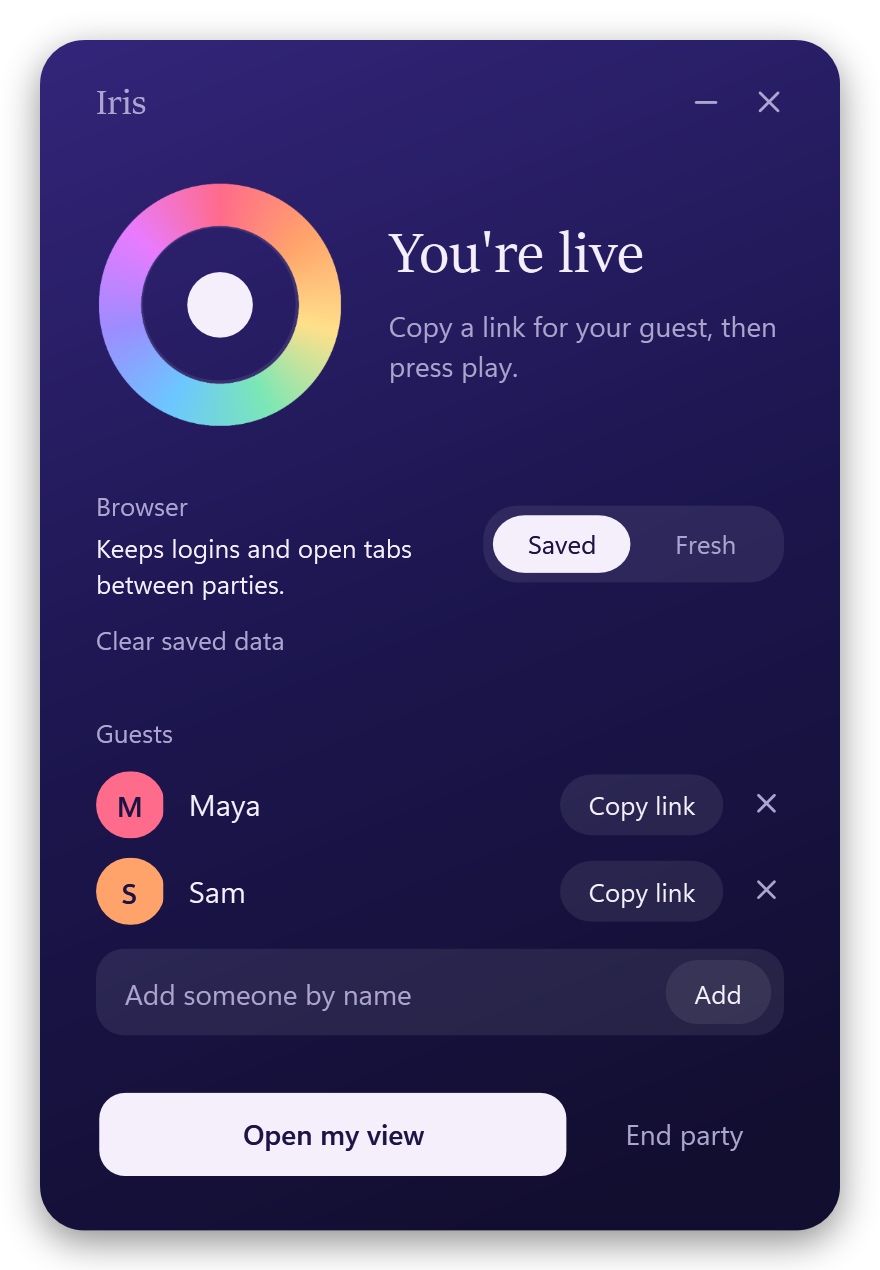
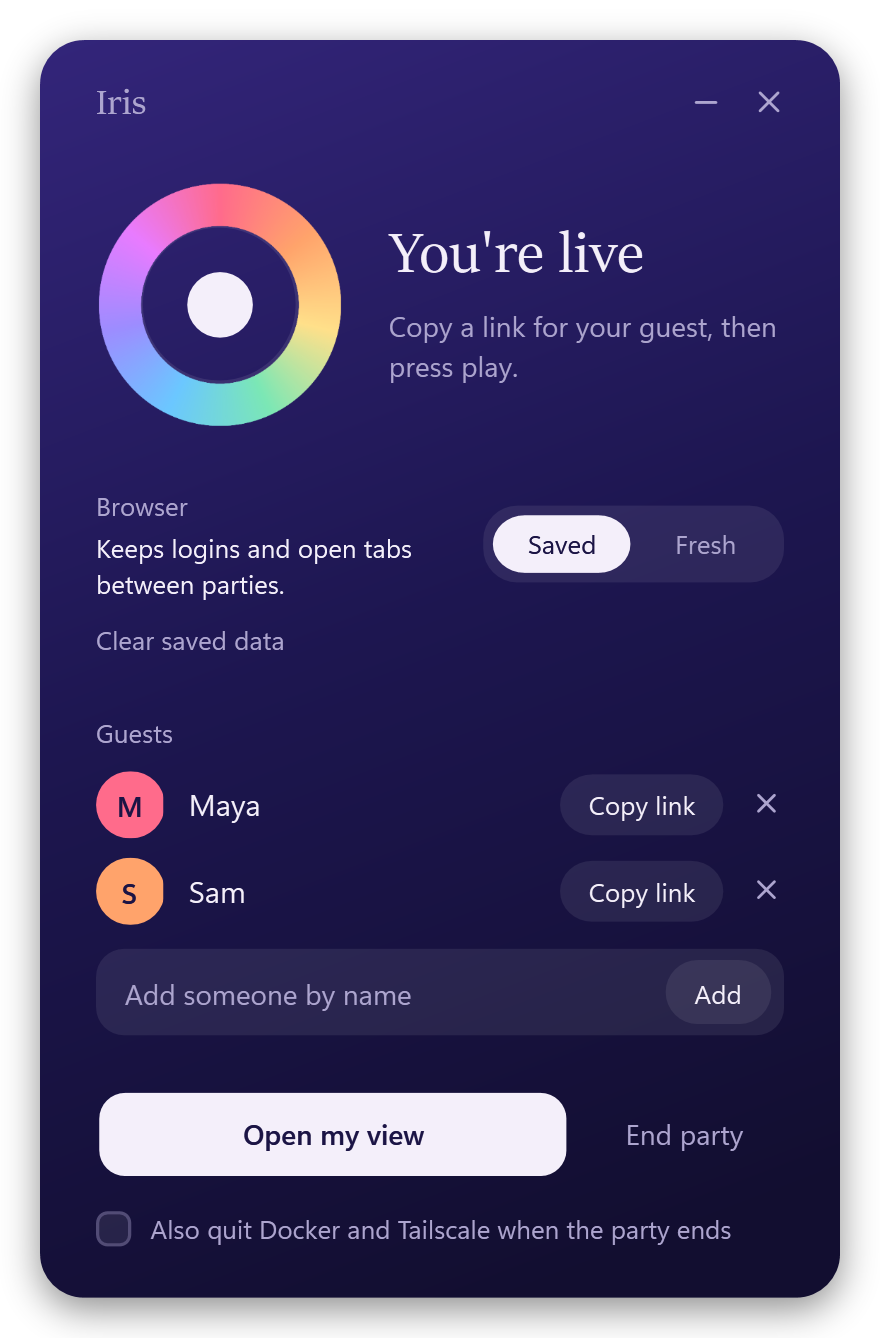
Option to quit Docker and Tailscale when the party ends
A remembered tick box under the buttons. End party then runs docker desktop stop and closes Tailscale's tray app; Iris starts both again next time, now in parallel. Also documents that Iris opens Docker and Tailscale itself.

diff --git a/ui/Iris.xaml b/ui/Iris.xaml
@@ -80,6 +80,40 @@
       <Setter Property="Width" Value="32"/>
       <Setter Property="Height" Value="32"/>
     </Style>
+
+    <Style x:Key="Tick" TargetType="CheckBox">
+      <Setter Property="Foreground" Value="{StaticResource Haze}"/>
+      <Setter Property="FontSize" Value="13"/>
+      <Setter Property="Cursor" Value="Hand"/>
+      <Setter Property="FocusVisualStyle" Value="{x:Null}"/>
+      <Setter Property="Template">
+        <Setter.Value>
+          <ControlTemplate TargetType="CheckBox">
+            <StackPanel Orientation="Horizontal" Background="Transparent">
+              <Border x:Name="Box" Width="18" Height="18" CornerRadius="5" Background="{StaticResource Veil}"
+                      BorderBrush="#66ADA5CF" BorderThickness="1.5" VerticalAlignment="Center">
+                <Path x:Name="Mark" Data="M3.5,9 L7,12.5 L13.5,5" Stroke="{StaticResource Ink}" StrokeThickness="1.8"
+                      StrokeStartLineCap="Round" StrokeEndLineCap="Round" StrokeLineJoin="Round" Visibility="Collapsed"/>
+              </Border>
+              <ContentPresenter Margin="10,0,0,0" VerticalAlignment="Center"/>
+            </StackPanel>
+            <ControlTemplate.Triggers>
+              <Trigger Property="IsChecked" Value="True">
+                <Setter TargetName="Box" Property="Background" Value="{StaticResource Cloud}"/>
+                <Setter TargetName="Box" Property="BorderBrush" Value="{StaticResource Cloud}"/>
+                <Setter TargetName="Mark" Property="Visibility" Value="Visible"/>
+              </Trigger>
+              <Trigger Property="IsMouseOver" Value="True">
+                <Setter Property="Foreground" Value="{StaticResource Cloud}"/>
+              </Trigger>
+              <Trigger Property="IsKeyboardFocused" Value="True">
+                <Setter TargetName="Box" Property="BorderBrush" Value="{StaticResource Focus}"/>
+              </Trigger>
+            </ControlTemplate.Triggers>
+          </ControlTemplate>
+        </Setter.Value>
+      </Setter>
+    </Style>
   </Window.Resources>
 
   <Border Margin="20" CornerRadius="22">
@@ -174,6 +208,8 @@
           <Button x:Name="OpenView" Content="Open my view" Style="{StaticResource Main}" IsEnabled="False"/>
           <Button x:Name="EndParty" Grid.Column="2" Content="End party" Style="{StaticResource Plain}"/>
         </Grid>
+        <CheckBox x:Name="QuitApps" Content="Also quit Docker and Tailscale when the party ends" Style="{StaticResource Tick}"
+                  Margin="0,16,0,0" AutomationProperties.Name="Also quit Docker and Tailscale"/>
       </StackPanel>
 
       <Grid x:Name="Sheet" Visibility="Collapsed">

diff --git a/docs/TROUBLESHOOTING.md b/docs/TROUBLESHOOTING.md
@@ -7,6 +7,7 @@
 | Iris window never appears | It is already open (only one runs at a time) | Look for it on the taskbar |
 | "Docker Desktop is not installed" or "Tailscale is not installed" | The command is not on PATH | Install it (see the README), then open Iris again |
 | Video froze after switching Saved/Fresh | The restart ended everyone's session | Refresh the page |
+| Your other devices can't reach this laptop after a party | **Also quit Docker and Tailscale** is ticked, so Tailscale was closed | Open Tailscale from the Start menu, or untick the option |
 | Stuck on "Starting Docker" | Docker Desktop is slow to start or needs attention | Open Docker Desktop and check for a prompt |
 | Stuck on "Connecting to Tailscale", then "Iris stopped" | Tailscale is signed out or its login expired | Sign in from the Tailscale tray icon, then open Iris again |
 | "The network lockdown failed" | The firewall container could not apply its rules | Open Iris again. If it repeats, run `docker compose up firewall` in this folder to see the error |

diff --git a/docs/ARCHITECTURE.md b/docs/ARCHITECTURE.md
@@ -50,7 +50,11 @@ Step 6 is quick because `docker-compose.yaml` overrides the image's health check
 second while starting (the image checks every 10 seconds).
 
 **End party** removes the Tailscale publishing and deletes the containers. The saved profile volume
-is kept. Closing the window instead offers to keep the party running.
+is kept. Closing the window instead offers to keep the party running. With **Also quit Docker and
+Tailscale** ticked (`quitApps` in `settings.json`), it then runs `docker desktop stop` and closes
+Tailscale's tray app. On Windows, Tailscale stays connected only while its tray app runs (unless
+"Run unattended" is on), so closing it disconnects; Iris reopens it on the next start, in parallel
+with Docker.
 
 ## The two modes
 

diff --git a/README.md b/README.md
@@ -36,6 +36,11 @@ distros, make sure none runs its own time service; it warps Docker's clock and m
 Closing the window asks whether to end the party or leave it running. If you leave it running,
 opening Iris again reattaches to it.
 
+You never need to open Docker Desktop or Tailscale yourself: Iris starts both. Tick **Also quit
+Docker and Tailscale when the party ends** to have them closed again afterwards. This frees
+Docker's memory, and this laptop leaves your tailnet until Iris (or you) opens Tailscale again.
+Ending then takes about 30 seconds.
+
 ## Saved or Fresh
 
 The **Browser** switch in the window picks how the shared Chrome behaves between parties.

diff --git a/docs/PERFORMANCE.md b/docs/PERFORMANCE.md
@@ -96,6 +96,8 @@ Measured 2026-11-18 through the window, with the images already downloaded:
 | Opening Iris while a party is already running | 3 s |
 | Switching Saved/Fresh | 15 to 21 s |
 | End party | 4 s |
+| End party with **Also quit Docker and Tailscale** | 28 s (`docker desktop stop` takes most of it) |
+| Opening Iris with Docker and Tailscale both closed, until both are ready | 14 to 17 s, then the usual start |
 
 ## DRM
 
